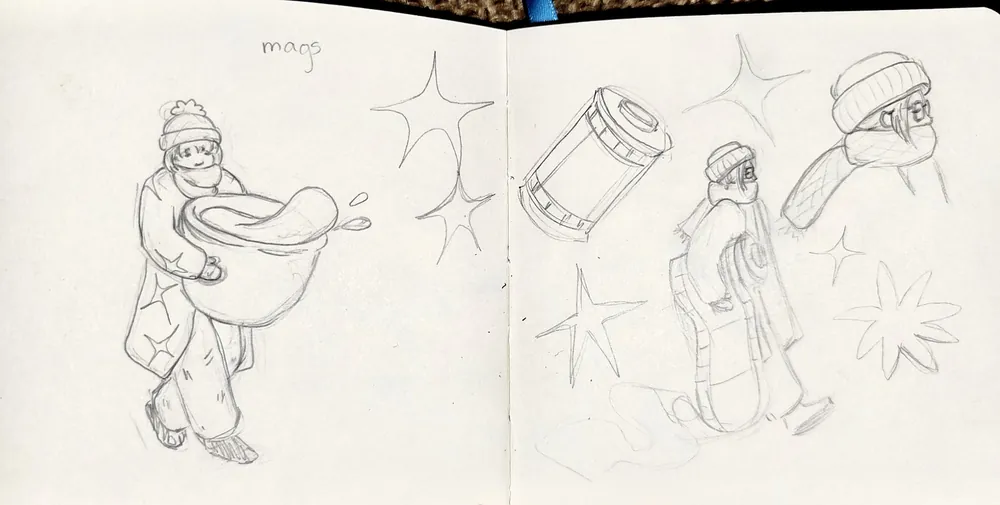
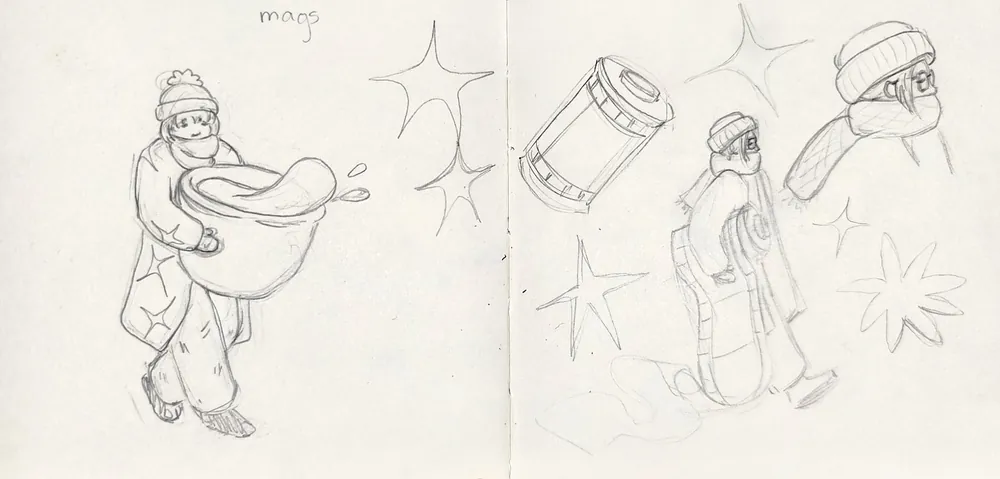
Baristas sketch cropped to the paper only
Claude-Session: https://claude.ai/code/session_012oBo8mbtagghuRQDTou4UD

diff --git a/js/content.js b/js/content.js
@@ -283,7 +283,7 @@
     { slug: "robin-logo-bird", series: "robin-identity", span: 6, start: 4, title: "Robin — Bird Mark", category: "Logo", cover: img("rb-studio.jpg", 1600, 1600, "Logo drawn as a single brush-stroke bird with the word studio") },
 
     /* 07 Leak — Character Illustrations */
-    { slug: "robin-characters-front", series: "robin-characters", span: 6, title: "The Baristas — Front", category: "Character design", process: [{ image: img("proc-baristas-side.jpg", 1600, 808, "Sketchbook spread exploring the characters' poses, a film canister and details"), caption: "Exploring poses and details" }], cover: img("winter-walk-1.jpg", 1445, 1117, "Line illustration of two girls walking, one carrying a cup, one a film reel, front view") },
+    { slug: "robin-characters-front", series: "robin-characters", span: 6, title: "The Baristas — Front", category: "Character design", process: [{ image: img("proc-baristas-side.jpg", 1600, 767, "Sketchbook spread exploring the characters' poses, a film canister and details"), caption: "Exploring poses and details" }], cover: img("winter-walk-1.jpg", 1445, 1117, "Line illustration of two girls walking, one carrying a cup, one a film reel, front view") },
     { slug: "robin-characters-side", series: "robin-characters", span: 6, title: "The Baristas — Side", category: "Character design", process: [{ image: img("proc-baristas-front.jpg", 1600, 783, "Sketchbook spread of two girls walking in winter clothes, one carrying a bowl, one a film reel"), caption: "Early sketches of the two characters" }], cover: img("winter-walk-2.jpg", 1480, 1141, "Line illustration of the same two girls walking, side view") },
     { slug: "moka-break", series: "robin-characters", span: 6, title: "Moka Break", category: "Character design", process: [{ image: img("proc-moka-break.jpg", 1600, 818, "Sketchbook spread with the first drafts of the man crouching with a moka pot and the man hugging a moka pot"), caption: "First drafts of the moka pot characters" }], cover: img("moka-break.jpg", 1600, 1200, "Line illustration of a man with a moka pot coffee maker"), gallery: [{ image: img("leak-tshirts.jpg", 1536, 1024, "Three cream T-shirts printed with the line illustrations: the man lying down pouring coffee, the man crouching with a moka pot, and the man hugging a moka pot"), size: "full", caption: "How the characters would look on the staff T-shirts" }] },
     { slug: "slow-morning", series: "robin-characters", span: 6, title: "Slow Morning", category: "Character design", process: [{ image: img("proc-slow-morning.jpg", 1600, 784, "Sketchbook spread with the first drafts of the coffee characters"), caption: "First drafts of the characters" }], cover: img("slow-morning.jpg", 1600, 1200, "Line illustration of a man lying down pouring coffee"), gallery: [{ image: img("leak-tshirts.jpg", 1536, 1024, "Three cream T-shirts printed with the line illustrations: the man lying down pouring coffee, the man crouching with a moka pot, and the man hugging a moka pot"), size: "full", caption: "How the characters would look on the staff T-shirts" }] },
